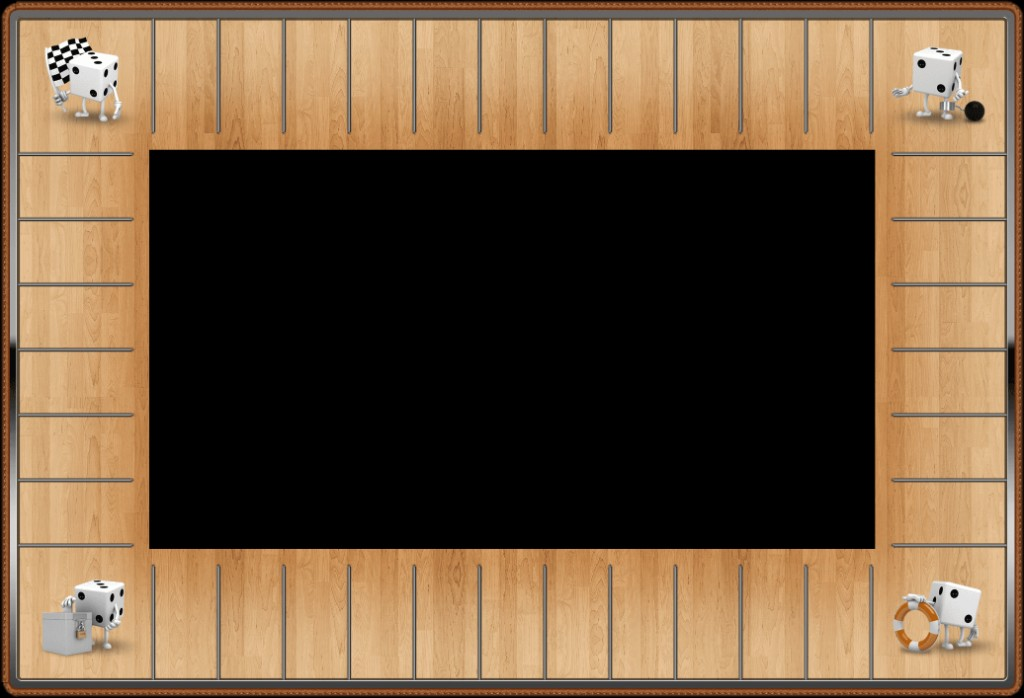
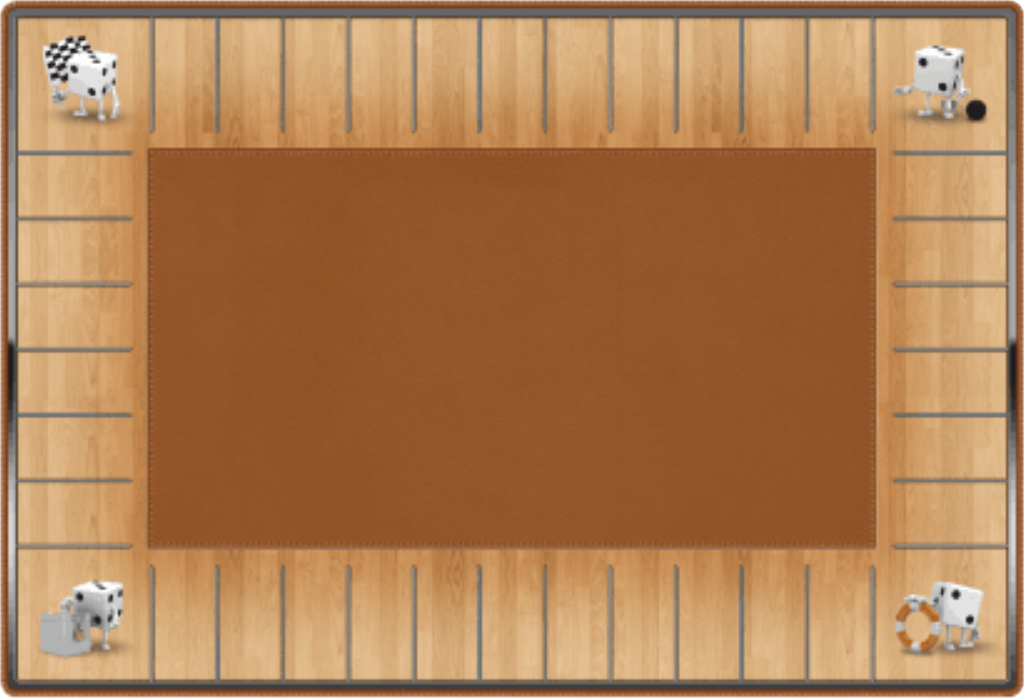
Use board art with baked center leather; hub background transparent.
Drop the CSS leather fill in board center so the frame image shows through.

diff --git a/css/style.css b/css/style.css
@@ -362,7 +362,7 @@ button, input, select { font-family: inherit; }
   box-sizing: border-box;
 }
 
-/* Центр — absolute по чёрному отверстию кадра (не grid+margin, иначе двойной inset) */
+/* Центр — UI поверх кожи, уже нарисованной в board-frame.png */
 .board__center {
   position: absolute;
   left: var(--hole-l, 149px);
@@ -374,11 +374,7 @@ button, input, select { font-family: inherit; }
   margin: 0;
   grid-row: unset;
   grid-column: unset;
-  background:
-    radial-gradient(ellipse at 30% 20%, rgba(255,255,255,0.07), transparent 50%),
-    radial-gradient(ellipse at 70% 80%, rgba(0,0,0,0.22), transparent 55%),
-    var(--leather-img) center / cover,
-    #5a3d2e;
+  background: transparent;
   border: none;
   box-shadow: none;
   display: flex;
